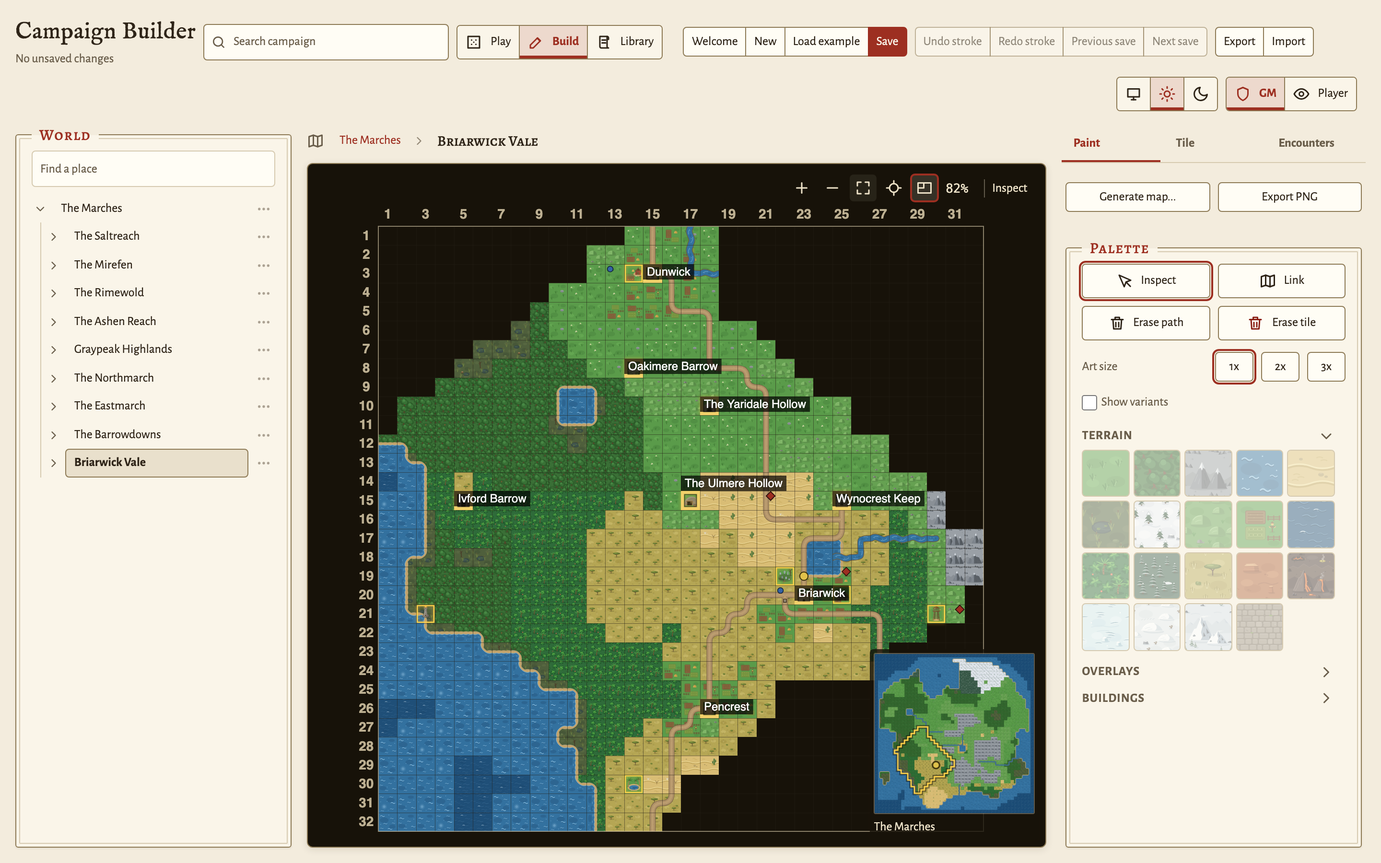
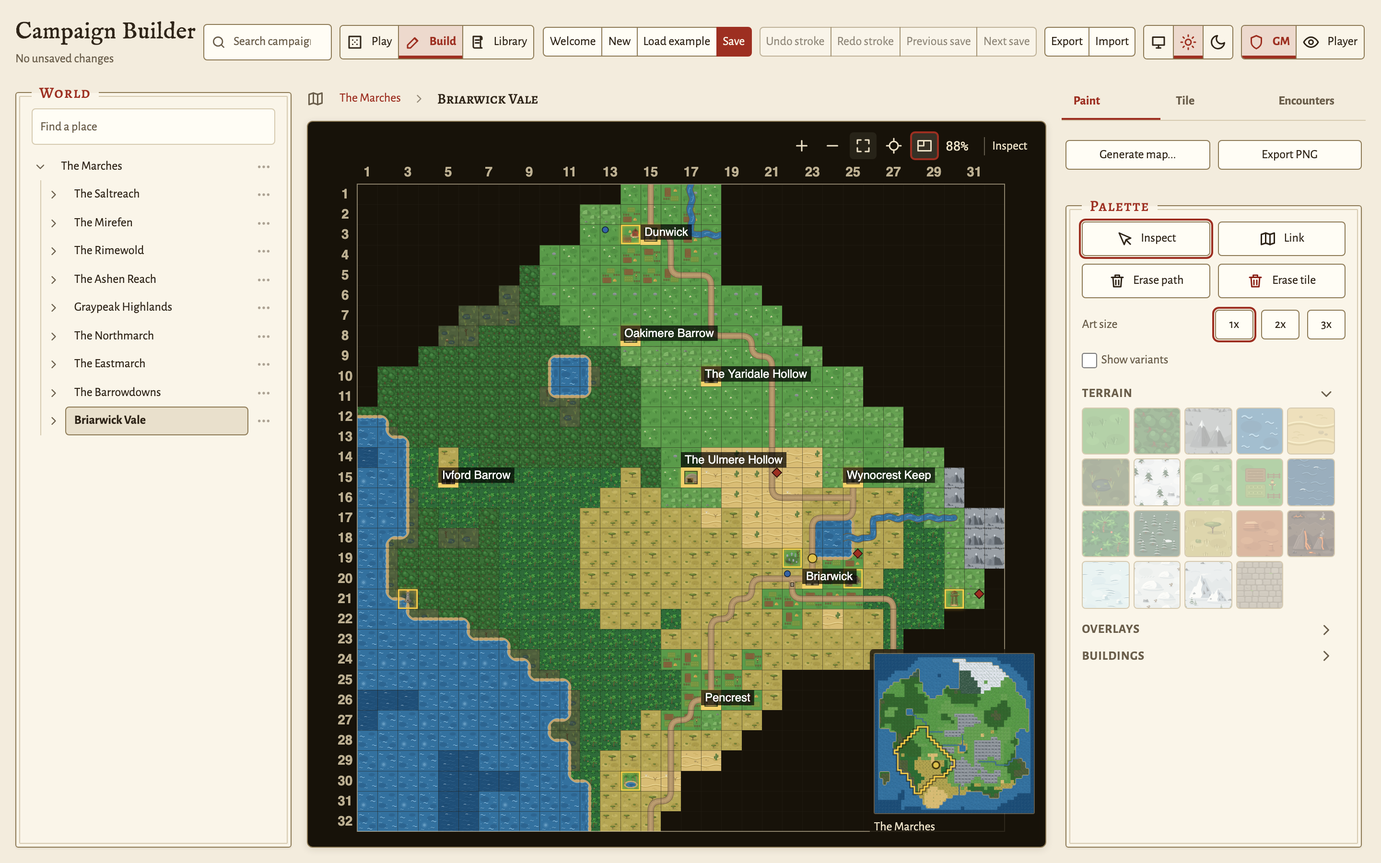
Fit the header on one row from 1280 pixels in every mode.
Build mode adds Undo stroke and Redo stroke to the History cluster, and Library mode spells out Export campaign and Import campaign, so both wrapped the header onto a second row at 1280 and 1440 pixels and took about 44 pixels from the map. The compact header range now runs to 115rem, header buttons use a 6 pixel side padding there, and the reserved switch widths match the GM view. Between the 900 pixel menu fold and 85rem the stroke pair shows new undo and redo arrow icons in place of its words, with aria-label and the tooltip keeping the full names. Wider headers and the open header menu still show the words.

The header still wraps between 901 and about 1270 pixels, as it did before. The Build mode screenshot is retaken and the GM reference describes the arrow buttons.

Changed region(s): [[0.2188, 0.0311, 0.9688, 0.9644], [0.0312, 0.0933, 0.1875, 0.56]]

diff --git a/docs/dev-guide.html b/docs/dev-guide.html
@@ -720,8 +720,8 @@
         <code>src/</code>. SLOC counts only the lines that are not blank and not comment.
       </p>
       <div class="facts">
-        <div><span class="fact-n">106,624</span><span class="fact-l">lines of source (LOC)</span></div>
-        <div><span class="fact-n">58,131</span><span class="fact-l">lines of code (SLOC)</span></div>
+        <div><span class="fact-n">106,635</span><span class="fact-l">lines of source (LOC)</span></div>
+        <div><span class="fact-n">58,136</span><span class="fact-l">lines of code (SLOC)</span></div>
         <div><span class="fact-n">628</span><span class="fact-l">source files</span></div>
         <div><span class="fact-n">480</span><span class="fact-l">test suites</span></div>
         <div><span class="fact-n">0</span><span class="fact-l">runtime dependencies</span></div>
@@ -1775,12 +1775,12 @@
     </section>
 
     <footer>
-      <div class="stamp">Generated from the source tree by scripts/build-dev-guide.mjs, source fingerprint 35be343311a2. Run <code>pnpm run guide</code> to rebuild.</div>
+      <div class="stamp">Generated from the source tree by scripts/build-dev-guide.mjs, source fingerprint 07fe4385da42. Run <code>pnpm run guide</code> to rebuild.</div>
     </footer>
   </main>
 </div>
 
-<script>window.__GUIDE_DATA__ = {"sections":[{"id":"layers","short":"Module logic"},{"id":"root","short":"Composition root"},{"id":"panels","short":"Panel contract"},{"id":"map","short":"Map model"},{"id":"save","short":"Persistence"},{"id":"where","short":"Where code goes"},{"id":"work","short":"Working on it"},{"id":"review","short":"Pre-flight"},{"id":"modules","short":"Module index"}],"kindGroups":[["root","composition"],["wiring","wiring"],["glue","DOM glue"],["mixed","pure + glue"],["pure","pure logic"],["data","catalogs"],["types","declarations"],["unclassified","unclassified"]],"dirs":[{"id":"app","name":"app/","files":101,"lines":18590,"code":11072,"kind":"wiring","role":"One wireX(app) module per feature area. Mounts panels, registers views and actions, and keeps the per-feature UI state that is not saved.","imports":["campaign","combat","data","dice","entities","handout","library","log","map","party","quest","storage","time","ui","util","view"]},{"id":"campaign","name":"campaign/","files":12,"lines":3113,"code":2275,"kind":"pure","role":"Blank and example campaign builders, and the initial load.","imports":["data","entities","map","party","storage","time","util"]},{"id":"combat","name":"combat/","files":31,"lines":3936,"code":1602,"kind":"pure","role":"Initiative order, attack resolution, the action budget, reactions, and loadout reads.","imports":["data","dice","entities","map","util","view"]},{"id":"data","name":"data/","files":22,"lines":5190,"code":4782,"kind":"data","role":"Frozen catalogs: abilities, classes, races, backgrounds, skills, spells, feats, creatures, and challenge ratings.","imports":["util"]},{"id":"dice","name":"dice/","files":4,"lines":429,"code":199,"kind":"pure","role":"roll(selection, rng). The generator is an argument, so a test can pass a stub.","imports":["entities","map","util"]},{"id":"entities","name":"entities/","files":110,"lines":18093,"code":8089,"kind":"pure","role":"Characters, encounters, resources, equipment, and casting. Every writer returns a new object.","imports":["combat","data","dice","map","util"]},{"id":"handout","name":"handout/","files":2,"lines":382,"code":160,"kind":"pure","role":"Handout records, visibility filters, and dialog helpers.","imports":["map","util"]},{"id":"library","name":"library/","files":6,"lines":1027,"code":547,"kind":"pure","role":"Merges the built-in catalogs with the GM customs, tagging each entry default, override, or custom.","imports":["combat","data","dice","entities","util"]},{"id":"log","name":"log/","files":3,"lines":289,"code":106,"kind":"pure","role":"Travelogue entries and the incremental read the panel renders from.","imports":["time","view"]},{"id":"main","name":"main.js","files":1,"lines":171,"code":97,"kind":"root","role":"Builds the AppContext, then calls each wiring module in mount order.","imports":["app","campaign","map","party","storage","ui","view"]},{"id":"map","name":"map/","files":85,"lines":18294,"code":9222,"kind":"mixed","role":"Tile grid, node hierarchy, fog, and region grouping, plus the canvas renderer. The renderer is the glue half, and everything else is pure.","imports":["handout","storage","util"]},{"id":"party","name":"party/","files":3,"lines":414,"code":143,"kind":"pure","role":"Party position and split-party tokens. Moving the party reveals fog.","imports":["map","time"]},{"id":"quest","name":"quest/","files":5,"lines":579,"code":223,"kind":"pure","role":"Quest records, objectives, links, and status transitions.","imports":["combat","entities","map"]},{"id":"storage","name":"storage/","files":39,"lines":7711,"code":3375,"kind":"pure","role":"Serialize, pack, migrate, and the delta history. Browser APIs are confined to thin wrappers.","imports":["combat","entities","handout","library","map","quest","time","util"]},{"id":"time","name":"time/","files":5,"lines":414,"code":170,"kind":"pure","role":"The in-game clock of watches and days.","imports":["util"]},{"id":"types","name":"types/","files":23,"lines":3344,"code":1623,"kind":"types","role":"Declaration files only, with no runtime code. The .js files point here through JSDoc, so no import edge leads to this directory.","imports":[]},{"id":"ui","name":"ui/","files":117,"lines":20232,"code":12407,"kind":"glue","role":"DOM widgets: panels, dialogs, forms. Draws from callbacks and writes nothing.","imports":["combat","data","dice","entities","library","log","map","quest","storage","time","util","view"]},{"id":"util","name":"util/","files":11,"lines":360,"code":129,"kind":"pure","role":"Clamping, identity memos, deep freeze, seeded random, idle scheduling, and text helpers. Imports nothing.","imports":[]},{"id":"view","name":"view/","files":48,"lines":4056,"code":1910,"kind":"pure","role":"View rules that a widget reads: stat bars, the shortcut table, the theme, the player lock.","imports":["combat","data","entities","handout","library","log","map","storage","util"]}],"steps":[{"call":"wireCampaignActions","line":101,"role":"dirty flag + header campaign controls; provides markDirty","why":"The order below is a dependency order, not a preference. Almost every cross-module reference resolves when an event fires, long after all of this has run. Three modules reach another module's registrations while they are still mounting, so those registrations must be in place first.","regs":[{"registry":"actions","name":"markDirty"},{"registry":"actions","name":"mergeQueuedPatches"}]},{"call":"wireLibrary","line":104,"role":"Library mode: equipment/bestiary/NPC templates + custom-library file","why":"The library loads before anything that offers its presets (the item form, the enemy gear pickers), so the merged lists are live from the first open.","regs":[{"registry":"actions","name":"showLibrary"}]},{"call":"wireCombatScreen","line":108,"role":"combat mode's full-width board","why":"The combat screen mounts before the fight state, because that module's refresh paths reach `views.combatScreen` while it is still mounting.","regs":[{"registry":"views","name":"combatScreen"}]},{"call":"wireFightState","line":109,"role":"the running fight + the Initiative card","why":"","regs":[{"registry":"actions","name":"removeCombatant"},{"registry":"actions","name":"addCombatant"},{"registry":"actions","name":"spendBudget"},{"registry":"actions","name":"toggleBudget"},{"registry":"actions","name":"surgeBudget"},{"registry":"actions","name":"advanceCombatTurn"},{"registry":"actions","name":"endCombat"},{"registry":"actions","name":"syncCombatLocation"},{"registry":"views","name":"initiativePanel"}]},{"call":"wireEncounters","line":110,"role":"encounter panels + the combat setup dialog","why":"","regs":[]},{"call":"wireStory","line":111,"role":"travelogue (logEvent), NPCs, quests, handouts","why":"","regs":[{"registry":"actions","name":"logEvent"},{"registry":"views","name":"travelogPanel"},{"registry":"views","name":"npcPanel"},{"registry":"views","name":"buildNPCs"},{"registry":"views","name":"questPanel"}]},{"call":"wireParty","line":115,"role":"roster, sheet, inventory, time","why":"","regs":[{"registry":"actions","name":"getBoundCharacterId"},{"registry":"actions","name":"refreshSelectedCharacter"},{"registry":"actions","name":"getSelectedCharacterId"},{"registry":"views","name":"timePanel"},{"registry":"actions","name":"passTravelTime"},{"registry":"views","name":"partyPanels"}]},{"call":"wireMapView","line":119,"role":"canvas, trees, inspector, palette, fog, map tools","why":"This call draws the first map, which also marks the encounter and NPC tiles and rebuilds the Build-rail lists those markers share a node scope with. The two modules that own those lists are wired above.","regs":[{"registry":"actions","name":"undoStroke"},{"registry":"actions","name":"redoStroke"},{"registry":"actions","name":"meetCreatures"},{"registry":"actions","name":"syncPartyMarker"},{"registry":"actions","name":"syncExits"},{"registry":"actions","name":"syncCreatureMarkers"},{"registry":"actions","name":"refreshMapDescription"},{"registry":"actions","name":"resyncMap"},{"registry":"actions","name":"getSelectedTileId"},{"registry":"actions","name":"focusLocation"},{"registry":"actions","name":"centerOnLocation"},{"registry":"views","name":"regionTree"},{"registry":"views","name":"mapCanvas"},{"registry":"actions","name":"syncToolChip"},{"registry":"actions","name":"goToNode"},{"registry":"actions","name":"onModeChanged"},{"registry":"actions","name":"onRoleChanged"},{"registry":"actions","name":"showBuild"}]},{"call":"wireGenerateAction","line":120,"role":"shares the map's context rather than routing through actions","why":"","regs":[{"registry":"actions","name":"generateWorld"}]},{"call":"wireDiceTray","line":121,"role":"dice tray + the roll entries it writes to the travelogue","why":"","regs":[{"registry":"actions","name":"rollDice"},{"registry":"actions","name":"clearDiceResult"}]},{"call":"wireSessionControls","line":126,"role":"mode/role switches (applies the initial role), tabs, sidebar","why":"This must run last: mounting the role switch applies the starting role straight away. That refreshes four panels and re-points the character sheet, so everything it touches must already be registered.","regs":[{"registry":"actions","name":"setMode"}]}],"stages":[{"id":"raw","name":"in-memory state","size":5854923,"note":"Every tile and every entity written in full, the way they sit in memory."},{"id":"tiles","name":"1. tile defaults","size":2178532,"note":"packTile deletes default-valued fields from a copy, so a field added later keeps its value through the round trip, and withTileDefaults puts the defaults back on load."},{"id":"entities","name":"2. entity defaults","size":2171082,"note":"packEntity drops a field only when the real unpacker restores the same value. A fixed table of defaults would mis-restore an encounter whose weapon comes from its level and tier."},{"id":"assets","name":"3. assets hoisted","size":2171082,"note":"Inline data: URLs move into an assets table keyed by content hash, and the tile keeps an asset: reference. The example campaign ships no uploaded art, so this layer changes nothing here. It saves space once a GM uploads art for a handout, and more once custom tile art ships."},{"id":"codec","name":"4. tile codec","size":245328,"note":"Each node becomes an art palette, a row-major run-length list of indices, and a run-length fog track. The codec is opt-in per node, and when it meets an id it cannot parse it returns the same object and leaves the node alone."},{"id":"strings","name":"5. string table","size":197676,"note":"Every palette string moves into one strings table at the top of the save, and each palette names it by index. Only the save string has the table, so one encoded node still decodes alone."}],"storageKeys":[{"key":"campaign-builder:assets","file":"src/storage/AssetStore.js","line":30},{"key":"campaign-builder:bound-character","file":"src/view/CharacterBinding.js","line":17},{"key":"campaign-builder:gm-lock","file":"src/storage/GMLock.js","line":25},{"key":"campaign-builder:history","file":"src/storage/HistoryLog.js","line":10},{"key":"campaign-builder:library","file":"src/storage/LibraryStore.js","line":11},{"key":"campaign-builder:minimap-hidden","file":"src/ui/MiniMap.js","line":20},{"key":"campaign-builder:onboarded","file":"src/app/onboarding.js","line":9},{"key":"campaign-builder:patch:","file":"src/storage/PlayerPatch.js","line":32},{"key":"campaign-builder:pending-toast","file":"src/ui/Toast.js","line":108},{"key":"campaign-builder:player-hint-shown","file":"src/app/sessionControls.js","line":11},{"key":"campaign-builder:player-lock","file":"src/boot.js","line":37},{"key":"campaign-builder:quest-groups","file":"src/ui/QuestPanel.js","line":13},{"key":"campaign-builder:reload-view","file":"src/view/ReloadView.js","line":16},{"key":"campaign-builder:role","file":"src/app/sessionControls.js","line":203},{"key":"campaign-builder:save","file":"src/storage/SaveStorage.js","line":21},{"key":"campaign-builder:save-mark","file":"src/storage/SaveStorage.js","line":38},{"key":"campaign-builder:show-variants","file":"src/ui/PalettePanel.js","line":10},{"key":"campaign-builder:story-cards","file":"src/ui/StoryCards.js","line":7},{"key":"campaign-builder:theme","file":"src/boot.js","line":27}],"commands":[{"command":"pnpm install","note":"Development tools only."},{"command":"pnpm run dev","note":"Dev server on 127.0.0.1:8080. Rebuilds on every source change. Reload the page to see the change."},{"command":"node --test tests/Character.test.js","note":"One file while you iterate."},{"command":"pnpm run test","note":"The whole suite. Run it before every commit."},{"command":"pnpm run coverage","note":"Line, branch, and function coverage across all of src/."},{"command":"pnpm run typecheck","note":"Typechecks src/ and docs/gallery/. Do not use pnpx tsc, which downloads a placeholder package and checks nothing."},{"command":"pnpm run lint","note":"ESLint over the tree."},{"command":"pnpm run build","note":"Minified production output in dist/."},{"command":"pnpm run guide","note":"Rebuilds this page from the source tree."},{"command":"git config core.hooksPath hooks","note":"Once per clone. Turns on the pre-commit gate."}],"checklist":[{"title":"Every new writer returns a new object","note":"No in-place mutation in entities/ or map/. The repaint guard and the WeakMap caches both depend on it.","refs":[{"file":"src/util/memoize.js","symbol":"memoizeByIdentity","line":15}]},{"title":"New pure logic has a test","note":"One tests/\u003cModule>.test.js per source module. Side effects arrive as arguments.","refs":[]},{"title":"New save fields are absorbed, not migrated","note":"withDefaults covers absence. Migrations.js is only for a change of meaning. Add the field to SYNCED_STATE_KEYS.","refs":[{"file":"src/app/rehydrate.js","symbol":"SYNCED_STATE_KEYS","line":40}]},{"title":"Handlers read app.views and app.actions at call time","note":"Capturing a registry entry during wiring breaks the mount order.","refs":[]},{"title":"Color, spacing, radius, and type come from tokens","note":"styles/base.css only, and never an inline var() fallback.","refs":[]},{"title":"Destructive actions confirm first","note":"confirmDelete for a plain entity delete, confirmModal with danger: true for anything else.","refs":[{"file":"src/ui/Modal.js","symbol":"confirmDelete","line":475}]},{"title":"Buttons and empty states come from ui/buttons.js","note":"iconButton, textButton, emptyState, segSwitch. An icon-only button needs an aria-label.","refs":[{"file":"src/ui/buttons.js","symbol":"emptyState","line":289}]},{"title":"Dismiss on the left, primary on the right","note":"Every modal, inline form, and action bar.","refs":[]},{"title":"The file is under 500 lines","note":"Split it by responsibility when it is not.","refs":[]},{"title":"DOM and canvas changes were opened in a browser","note":"Screenshot the change and read the console for 404s on asset paths.","refs":[]},{"title":"Lint, suite, and typecheck all pass","note":"The pre-commit hook runs the formatter and then all three.","refs":[]}],"routerTree":{"start":{"q":"Does the change need the DOM, a canvas, or a browser API?","opts":[{"label":"No","note":"Rules, math, data models, save format.","next":"pure"},{"label":"Yes","note":"Elements, events, drawing, storage APIs.","next":"glue"}]},"pure":{"q":"What does it operate on?","opts":[{"label":"Tiles, nodes, fog","note":"Geometry, hierarchy, reveal.","answer":"map"},{"label":"Characters or foes","note":"Stats, gear, spells, damage.","answer":"entities"},{"label":"The save format","note":"New field, new format, packing.","answer":"storage"},{"label":"Randomness","note":"Dice, rolls, checks.","answer":"dice"}]},"glue":{"q":"Is it one panel, or a behavior that crosses features?","opts":[{"label":"One panel","note":"A list, a form, a card.","answer":"ui"},{"label":"Crosses features","note":"A move triggers an encounter, a cast writes the log.","answer":"app"},{"label":"Drawing on the map","note":"A new render pass or marker.","answer":"canvas"}]}},"routerAnswers":{"map":{"where":"src/map/","test":"tests/\u003cModule>.test.js, with no DOM. Take the node as an argument and return a new node.","trap":"Return the same node object when nothing changed. TileIndex and every WeakMap cache are keyed on node identity, so a mutated node serves stale data forever.","refs":[{"file":"src/map/TileIndex.js","symbol":"tileAt","line":303},{"file":"src/map/FogOfWar.js","symbol":"revealAround","line":27}]},"entities":{"where":"src/entities/, with any catalog data in src/data/","test":"tests/\u003cModule>.test.js. Inject the generator so the result is deterministic.","trap":"Never mutate in place. A writer returns a new object, and the panel repaint guard depends on that. Catalogs in src/data/ are deep-frozen, so copy one before you write it into campaign state.","refs":[{"file":"src/util/deepFreeze.js","symbol":"deepFreeze","line":16},{"file":"src/entities/CreatureTemplate.js","symbol":"fromTemplate","line":64}]},"storage":{"where":"src/storage/","test":"A round trip through serialize and deserialize, plus a migration test if the meaning of a field changed.","trap":"A new field needs no migration, because withDefaults absorbs absence. Only a change of meaning goes in Migrations.js. Add the field to SYNCED_STATE_KEYS as well, which a test compares with the fields of Campaign.","refs":[{"file":"src/storage/Migrations.js","symbol":"migrateState","line":282},{"file":"src/app/rehydrate.js","symbol":"SYNCED_STATE_KEYS","line":40}]},"dice":{"where":"src/dice/, or src/combat/ if it resolves an attack","test":"Pass a stub generator and assert the exact output, the way tests/DiceRoller.test.js does.","trap":"The generator and the clock are arguments, never module state, because every test in this layer asserts an exact result and module state would make that impossible.","refs":[{"file":"src/dice/DiceRoller.js","symbol":"roll","line":34},{"file":"src/combat/AttackResolve.js","symbol":"resolveAttack","line":83}]},"ui":{"where":"src/ui/","test":"Nothing automated. Extract the rules into a pure module and test that, then check the widget itself in a browser.","trap":"Use mountListPanel, buttons.js, and the tokens in styles/base.css before you write new markup. Never write an inline token fallback such as var(--border, #ccc), because a missing token should render as nothing so that the mistake is visible.","refs":[{"file":"src/ui/listPanel.js","symbol":"mountListPanel","line":156},{"file":"src/ui/buttons.js","symbol":"iconButton","line":34}]},"app":{"where":"src/app/\u003cfeature>Wiring.js, or a helper beside it","test":"Split the rule out as a pure function and test that half. The wiring stays thin.","trap":"Read app.views and app.actions inside the handler, never during wiring. Capturing a registry entry at mount time breaks the mount order and brings back import cycles.","refs":[{"file":"src/app/mapTravel.js","symbol":"createMapTravel","line":40}]},"canvas":{"where":"src/map/MapRenderer.js and the render modules beside it, with pure helpers alongside","test":"Visual. Use tests/map-canvas-preview.html and read the console.","trap":"render() only schedules a frame. Add derived data to the shared frame object rather than re-scanning node.tiles, and iterate the visible cell range only.","refs":[{"file":"src/map/MapCanvas.js","symbol":"render","line":136},{"file":"src/map/MapRenderer.js","symbol":"anyRevealed","line":33}]}},"revealRadius":2};</script>
+<script>window.__GUIDE_DATA__ = {"sections":[{"id":"layers","short":"Module logic"},{"id":"root","short":"Composition root"},{"id":"panels","short":"Panel contract"},{"id":"map","short":"Map model"},{"id":"save","short":"Persistence"},{"id":"where","short":"Where code goes"},{"id":"work","short":"Working on it"},{"id":"review","short":"Pre-flight"},{"id":"modules","short":"Module index"}],"kindGroups":[["root","composition"],["wiring","wiring"],["glue","DOM glue"],["mixed","pure + glue"],["pure","pure logic"],["data","catalogs"],["types","declarations"],["unclassified","unclassified"]],"dirs":[{"id":"app","name":"app/","files":101,"lines":18594,"code":11075,"kind":"wiring","role":"One wireX(app) module per feature area. Mounts panels, registers views and actions, and keeps the per-feature UI state that is not saved.","imports":["campaign","combat","data","dice","entities","handout","library","log","map","party","quest","storage","time","ui","util","view"]},{"id":"campaign","name":"campaign/","files":12,"lines":3113,"code":2275,"kind":"pure","role":"Blank and example campaign builders, and the initial load.","imports":["data","entities","map","party","storage","time","util"]},{"id":"combat","name":"combat/","files":31,"lines":3936,"code":1602,"kind":"pure","role":"Initiative order, attack resolution, the action budget, reactions, and loadout reads.","imports":["data","dice","entities","map","util","view"]},{"id":"data","name":"data/","files":22,"lines":5190,"code":4782,"kind":"data","role":"Frozen catalogs: abilities, classes, races, backgrounds, skills, spells, feats, creatures, and challenge ratings.","imports":["util"]},{"id":"dice","name":"dice/","files":4,"lines":429,"code":199,"kind":"pure","role":"roll(selection, rng). The generator is an argument, so a test can pass a stub.","imports":["entities","map","util"]},{"id":"entities","name":"entities/","files":110,"lines":18093,"code":8089,"kind":"pure","role":"Characters, encounters, resources, equipment, and casting. Every writer returns a new object.","imports":["combat","data","dice","map","util"]},{"id":"handout","name":"handout/","files":2,"lines":382,"code":160,"kind":"pure","role":"Handout records, visibility filters, and dialog helpers.","imports":["map","util"]},{"id":"library","name":"library/","files":6,"lines":1027,"code":547,"kind":"pure","role":"Merges the built-in catalogs with the GM customs, tagging each entry default, override, or custom.","imports":["combat","data","dice","entities","util"]},{"id":"log","name":"log/","files":3,"lines":289,"code":106,"kind":"pure","role":"Travelogue entries and the incremental read the panel renders from.","imports":["time","view"]},{"id":"main","name":"main.js","files":1,"lines":171,"code":97,"kind":"root","role":"Builds the AppContext, then calls each wiring module in mount order.","imports":["app","campaign","map","party","storage","ui","view"]},{"id":"map","name":"map/","files":85,"lines":18294,"code":9222,"kind":"mixed","role":"Tile grid, node hierarchy, fog, and region grouping, plus the canvas renderer. The renderer is the glue half, and everything else is pure.","imports":["handout","storage","util"]},{"id":"party","name":"party/","files":3,"lines":414,"code":143,"kind":"pure","role":"Party position and split-party tokens. Moving the party reveals fog.","imports":["map","time"]},{"id":"quest","name":"quest/","files":5,"lines":579,"code":223,"kind":"pure","role":"Quest records, objectives, links, and status transitions.","imports":["combat","entities","map"]},{"id":"storage","name":"storage/","files":39,"lines":7711,"code":3375,"kind":"pure","role":"Serialize, pack, migrate, and the delta history. Browser APIs are confined to thin wrappers.","imports":["combat","entities","handout","library","map","quest","time","util"]},{"id":"time","name":"time/","files":5,"lines":414,"code":170,"kind":"pure","role":"The in-game clock of watches and days.","imports":["util"]},{"id":"types","name":"types/","files":23,"lines":3344,"code":1623,"kind":"types","role":"Declaration files only, with no runtime code. The .js files point here through JSDoc, so no import edge leads to this directory.","imports":[]},{"id":"ui","name":"ui/","files":117,"lines":20239,"code":12409,"kind":"glue","role":"DOM widgets: panels, dialogs, forms. Draws from callbacks and writes nothing.","imports":["combat","data","dice","entities","library","log","map","quest","storage","time","util","view"]},{"id":"util","name":"util/","files":11,"lines":360,"code":129,"kind":"pure","role":"Clamping, identity memos, deep freeze, seeded random, idle scheduling, and text helpers. Imports nothing.","imports":[]},{"id":"view","name":"view/","files":48,"lines":4056,"code":1910,"kind":"pure","role":"View rules that a widget reads: stat bars, the shortcut table, the theme, the player lock.","imports":["combat","data","entities","handout","library","log","map","storage","util"]}],"steps":[{"call":"wireCampaignActions","line":101,"role":"dirty flag + header campaign controls; provides markDirty","why":"The order below is a dependency order, not a preference. Almost every cross-module reference resolves when an event fires, long after all of this has run. Three modules reach another module's registrations while they are still mounting, so those registrations must be in place first.","regs":[{"registry":"actions","name":"markDirty"},{"registry":"actions","name":"mergeQueuedPatches"}]},{"call":"wireLibrary","line":104,"role":"Library mode: equipment/bestiary/NPC templates + custom-library file","why":"The library loads before anything that offers its presets (the item form, the enemy gear pickers), so the merged lists are live from the first open.","regs":[{"registry":"actions","name":"showLibrary"}]},{"call":"wireCombatScreen","line":108,"role":"combat mode's full-width board","why":"The combat screen mounts before the fight state, because that module's refresh paths reach `views.combatScreen` while it is still mounting.","regs":[{"registry":"views","name":"combatScreen"}]},{"call":"wireFightState","line":109,"role":"the running fight + the Initiative card","why":"","regs":[{"registry":"actions","name":"removeCombatant"},{"registry":"actions","name":"addCombatant"},{"registry":"actions","name":"spendBudget"},{"registry":"actions","name":"toggleBudget"},{"registry":"actions","name":"surgeBudget"},{"registry":"actions","name":"advanceCombatTurn"},{"registry":"actions","name":"endCombat"},{"registry":"actions","name":"syncCombatLocation"},{"registry":"views","name":"initiativePanel"}]},{"call":"wireEncounters","line":110,"role":"encounter panels + the combat setup dialog","why":"","regs":[]},{"call":"wireStory","line":111,"role":"travelogue (logEvent), NPCs, quests, handouts","why":"","regs":[{"registry":"actions","name":"logEvent"},{"registry":"views","name":"travelogPanel"},{"registry":"views","name":"npcPanel"},{"registry":"views","name":"buildNPCs"},{"registry":"views","name":"questPanel"}]},{"call":"wireParty","line":115,"role":"roster, sheet, inventory, time","why":"","regs":[{"registry":"actions","name":"getBoundCharacterId"},{"registry":"actions","name":"refreshSelectedCharacter"},{"registry":"actions","name":"getSelectedCharacterId"},{"registry":"views","name":"timePanel"},{"registry":"actions","name":"passTravelTime"},{"registry":"views","name":"partyPanels"}]},{"call":"wireMapView","line":119,"role":"canvas, trees, inspector, palette, fog, map tools","why":"This call draws the first map, which also marks the encounter and NPC tiles and rebuilds the Build-rail lists those markers share a node scope with. The two modules that own those lists are wired above.","regs":[{"registry":"actions","name":"undoStroke"},{"registry":"actions","name":"redoStroke"},{"registry":"actions","name":"meetCreatures"},{"registry":"actions","name":"syncPartyMarker"},{"registry":"actions","name":"syncExits"},{"registry":"actions","name":"syncCreatureMarkers"},{"registry":"actions","name":"refreshMapDescription"},{"registry":"actions","name":"resyncMap"},{"registry":"actions","name":"getSelectedTileId"},{"registry":"actions","name":"focusLocation"},{"registry":"actions","name":"centerOnLocation"},{"registry":"views","name":"regionTree"},{"registry":"views","name":"mapCanvas"},{"registry":"actions","name":"syncToolChip"},{"registry":"actions","name":"goToNode"},{"registry":"actions","name":"onModeChanged"},{"registry":"actions","name":"onRoleChanged"},{"registry":"actions","name":"showBuild"}]},{"call":"wireGenerateAction","line":120,"role":"shares the map's context rather than routing through actions","why":"","regs":[{"registry":"actions","name":"generateWorld"}]},{"call":"wireDiceTray","line":121,"role":"dice tray + the roll entries it writes to the travelogue","why":"","regs":[{"registry":"actions","name":"rollDice"},{"registry":"actions","name":"clearDiceResult"}]},{"call":"wireSessionControls","line":126,"role":"mode/role switches (applies the initial role), tabs, sidebar","why":"This must run last: mounting the role switch applies the starting role straight away. That refreshes four panels and re-points the character sheet, so everything it touches must already be registered.","regs":[{"registry":"actions","name":"setMode"}]}],"stages":[{"id":"raw","name":"in-memory state","size":5854923,"note":"Every tile and every entity written in full, the way they sit in memory."},{"id":"tiles","name":"1. tile defaults","size":2178532,"note":"packTile deletes default-valued fields from a copy, so a field added later keeps its value through the round trip, and withTileDefaults puts the defaults back on load."},{"id":"entities","name":"2. entity defaults","size":2171082,"note":"packEntity drops a field only when the real unpacker restores the same value. A fixed table of defaults would mis-restore an encounter whose weapon comes from its level and tier."},{"id":"assets","name":"3. assets hoisted","size":2171082,"note":"Inline data: URLs move into an assets table keyed by content hash, and the tile keeps an asset: reference. The example campaign ships no uploaded art, so this layer changes nothing here. It saves space once a GM uploads art for a handout, and more once custom tile art ships."},{"id":"codec","name":"4. tile codec","size":245328,"note":"Each node becomes an art palette, a row-major run-length list of indices, and a run-length fog track. The codec is opt-in per node, and when it meets an id it cannot parse it returns the same object and leaves the node alone."},{"id":"strings","name":"5. string table","size":197676,"note":"Every palette string moves into one strings table at the top of the save, and each palette names it by index. Only the save string has the table, so one encoded node still decodes alone."}],"storageKeys":[{"key":"campaign-builder:assets","file":"src/storage/AssetStore.js","line":30},{"key":"campaign-builder:bound-character","file":"src/view/CharacterBinding.js","line":17},{"key":"campaign-builder:gm-lock","file":"src/storage/GMLock.js","line":25},{"key":"campaign-builder:history","file":"src/storage/HistoryLog.js","line":10},{"key":"campaign-builder:library","file":"src/storage/LibraryStore.js","line":11},{"key":"campaign-builder:minimap-hidden","file":"src/ui/MiniMap.js","line":20},{"key":"campaign-builder:onboarded","file":"src/app/onboarding.js","line":9},{"key":"campaign-builder:patch:","file":"src/storage/PlayerPatch.js","line":32},{"key":"campaign-builder:pending-toast","file":"src/ui/Toast.js","line":108},{"key":"campaign-builder:player-hint-shown","file":"src/app/sessionControls.js","line":11},{"key":"campaign-builder:player-lock","file":"src/boot.js","line":37},{"key":"campaign-builder:quest-groups","file":"src/ui/QuestPanel.js","line":13},{"key":"campaign-builder:reload-view","file":"src/view/ReloadView.js","line":16},{"key":"campaign-builder:role","file":"src/app/sessionControls.js","line":203},{"key":"campaign-builder:save","file":"src/storage/SaveStorage.js","line":21},{"key":"campaign-builder:save-mark","file":"src/storage/SaveStorage.js","line":38},{"key":"campaign-builder:show-variants","file":"src/ui/PalettePanel.js","line":10},{"key":"campaign-builder:story-cards","file":"src/ui/StoryCards.js","line":7},{"key":"campaign-builder:theme","file":"src/boot.js","line":27}],"commands":[{"command":"pnpm install","note":"Development tools only."},{"command":"pnpm run dev","note":"Dev server on 127.0.0.1:8080. Rebuilds on every source change. Reload the page to see the change."},{"command":"node --test tests/Character.test.js","note":"One file while you iterate."},{"command":"pnpm run test","note":"The whole suite. Run it before every commit."},{"command":"pnpm run coverage","note":"Line, branch, and function coverage across all of src/."},{"command":"pnpm run typecheck","note":"Typechecks src/ and docs/gallery/. Do not use pnpx tsc, which downloads a placeholder package and checks nothing."},{"command":"pnpm run lint","note":"ESLint over the tree."},{"command":"pnpm run build","note":"Minified production output in dist/."},{"command":"pnpm run guide","note":"Rebuilds this page from the source tree."},{"command":"git config core.hooksPath hooks","note":"Once per clone. Turns on the pre-commit gate."}],"checklist":[{"title":"Every new writer returns a new object","note":"No in-place mutation in entities/ or map/. The repaint guard and the WeakMap caches both depend on it.","refs":[{"file":"src/util/memoize.js","symbol":"memoizeByIdentity","line":15}]},{"title":"New pure logic has a test","note":"One tests/\u003cModule>.test.js per source module. Side effects arrive as arguments.","refs":[]},{"title":"New save fields are absorbed, not migrated","note":"withDefaults covers absence. Migrations.js is only for a change of meaning. Add the field to SYNCED_STATE_KEYS.","refs":[{"file":"src/app/rehydrate.js","symbol":"SYNCED_STATE_KEYS","line":40}]},{"title":"Handlers read app.views and app.actions at call time","note":"Capturing a registry entry during wiring breaks the mount order.","refs":[]},{"title":"Color, spacing, radius, and type come from tokens","note":"styles/base.css only, and never an inline var() fallback.","refs":[]},{"title":"Destructive actions confirm first","note":"confirmDelete for a plain entity delete, confirmModal with danger: true for anything else.","refs":[{"file":"src/ui/Modal.js","symbol":"confirmDelete","line":475}]},{"title":"Buttons and empty states come from ui/buttons.js","note":"iconButton, textButton, emptyState, segSwitch. An icon-only button needs an aria-label.","refs":[{"file":"src/ui/buttons.js","symbol":"emptyState","line":289}]},{"title":"Dismiss on the left, primary on the right","note":"Every modal, inline form, and action bar.","refs":[]},{"title":"The file is under 500 lines","note":"Split it by responsibility when it is not.","refs":[]},{"title":"DOM and canvas changes were opened in a browser","note":"Screenshot the change and read the console for 404s on asset paths.","refs":[]},{"title":"Lint, suite, and typecheck all pass","note":"The pre-commit hook runs the formatter and then all three.","refs":[]}],"routerTree":{"start":{"q":"Does the change need the DOM, a canvas, or a browser API?","opts":[{"label":"No","note":"Rules, math, data models, save format.","next":"pure"},{"label":"Yes","note":"Elements, events, drawing, storage APIs.","next":"glue"}]},"pure":{"q":"What does it operate on?","opts":[{"label":"Tiles, nodes, fog","note":"Geometry, hierarchy, reveal.","answer":"map"},{"label":"Characters or foes","note":"Stats, gear, spells, damage.","answer":"entities"},{"label":"The save format","note":"New field, new format, packing.","answer":"storage"},{"label":"Randomness","note":"Dice, rolls, checks.","answer":"dice"}]},"glue":{"q":"Is it one panel, or a behavior that crosses features?","opts":[{"label":"One panel","note":"A list, a form, a card.","answer":"ui"},{"label":"Crosses features","note":"A move triggers an encounter, a cast writes the log.","answer":"app"},{"label":"Drawing on the map","note":"A new render pass or marker.","answer":"canvas"}]}},"routerAnswers":{"map":{"where":"src/map/","test":"tests/\u003cModule>.test.js, with no DOM. Take the node as an argument and return a new node.","trap":"Return the same node object when nothing changed. TileIndex and every WeakMap cache are keyed on node identity, so a mutated node serves stale data forever.","refs":[{"file":"src/map/TileIndex.js","symbol":"tileAt","line":303},{"file":"src/map/FogOfWar.js","symbol":"revealAround","line":27}]},"entities":{"where":"src/entities/, with any catalog data in src/data/","test":"tests/\u003cModule>.test.js. Inject the generator so the result is deterministic.","trap":"Never mutate in place. A writer returns a new object, and the panel repaint guard depends on that. Catalogs in src/data/ are deep-frozen, so copy one before you write it into campaign state.","refs":[{"file":"src/util/deepFreeze.js","symbol":"deepFreeze","line":16},{"file":"src/entities/CreatureTemplate.js","symbol":"fromTemplate","line":64}]},"storage":{"where":"src/storage/","test":"A round trip through serialize and deserialize, plus a migration test if the meaning of a field changed.","trap":"A new field needs no migration, because withDefaults absorbs absence. Only a change of meaning goes in Migrations.js. Add the field to SYNCED_STATE_KEYS as well, which a test compares with the fields of Campaign.","refs":[{"file":"src/storage/Migrations.js","symbol":"migrateState","line":282},{"file":"src/app/rehydrate.js","symbol":"SYNCED_STATE_KEYS","line":40}]},"dice":{"where":"src/dice/, or src/combat/ if it resolves an attack","test":"Pass a stub generator and assert the exact output, the way tests/DiceRoller.test.js does.","trap":"The generator and the clock are arguments, never module state, because every test in this layer asserts an exact result and module state would make that impossible.","refs":[{"file":"src/dice/DiceRoller.js","symbol":"roll","line":34},{"file":"src/combat/AttackResolve.js","symbol":"resolveAttack","line":83}]},"ui":{"where":"src/ui/","test":"Nothing automated. Extract the rules into a pure module and test that, then check the widget itself in a browser.","trap":"Use mountListPanel, buttons.js, and the tokens in styles/base.css before you write new markup. Never write an inline token fallback such as var(--border, #ccc), because a missing token should render as nothing so that the mistake is visible.","refs":[{"file":"src/ui/listPanel.js","symbol":"mountListPanel","line":156},{"file":"src/ui/buttons.js","symbol":"iconButton","line":34}]},"app":{"where":"src/app/\u003cfeature>Wiring.js, or a helper beside it","test":"Split the rule out as a pure function and test that half. The wiring stays thin.","trap":"Read app.views and app.actions inside the handler, never during wiring. Capturing a registry entry at mount time breaks the mount order and brings back import cycles.","refs":[{"file":"src/app/mapTravel.js","symbol":"createMapTravel","line":40}]},"canvas":{"where":"src/map/MapRenderer.js and the render modules beside it, with pure helpers alongside","test":"Visual. Use tests/map-canvas-preview.html and read the console.","trap":"render() only schedules a frame. Add derived data to the shared frame object rather than re-scanning node.tiles, and iterate the visible cell range only.","refs":[{"file":"src/map/MapCanvas.js","symbol":"render","line":136},{"file":"src/map/MapRenderer.js","symbol":"anyRevealed","line":33}]}},"revealRadius":2};</script>
 <script>
 (function () {
   'use strict';

diff --git a/styles/shell.css b/styles/shell.css
@@ -164,11 +164,12 @@ body.role-locked #role-switch-container {
 }
 
 /* On a laptop screen the full header is about 1,380 pixels wide, so it wraps
-   onto a second row and takes that height from the map. Between phone width
-   and 100rem the header buttons and the gaps between clusters shrink, and
-   the title steps down, so the Play header fits one row at 1280 pixels. The
-   reserved switch widths above shrink with the buttons. */
-@media (min-width: 40.0625rem) and (max-width: 100rem) {
+   onto a second row and takes that height from the map. Between tablet width
+   and 115rem the header buttons and the gaps between clusters shrink, so the
+   header fits one row at 1280 pixels in every mode. The reserved switch
+   widths above shrink with the buttons, to the width each switch has in the
+   GM view. */
+@media (min-width: 40.0625rem) and (max-width: 115rem) {
   .app-header {
     column-gap: var(--space-2);
   }
@@ -178,7 +179,7 @@ body.role-locked #role-switch-container {
   }
 
   .app-header .btn {
-    padding-inline: var(--space-2);
+    padding-inline: 0.375rem;
   }
 
   .app-header__view {
@@ -186,15 +187,38 @@ body.role-locked #role-switch-container {
   }
 
   #mode-switch-container {
-    min-width: 14.25rem;
+    min-width: 12.75rem;
   }
 
   #theme-toggle-container {
-    min-width: 6.625rem;
+    min-width: 5.875rem;
   }
 
   #role-switch-container {
-    min-width: 9.125rem;
+    min-width: 8.125rem;
+  }
+}
+
+/* Build mode adds the stroke pair to the History cluster. A wide header
+   shows its words, and so does the open header menu. Between the menu fold
+   and 85rem the pair shows only its arrow icons, which leaves room for
+   Previous save and Next save on the same row. Each button
+   keeps its name in aria-label and its tooltip. */
+.header-stroke-undo .icon {
+  display: none;
+}
+
+@media (min-width: 56.3125rem) and (max-width: 85rem) {
+  .header-stroke-undo__label {
+    display: none;
+  }
+
+  .header-stroke-undo .icon {
+    display: block;
+  }
+
+  .app-header .header-stroke-undo {
+    padding-inline: var(--space-2);
   }
 }
 

diff --git a/index.html b/index.html
@@ -68,9 +68,11 @@
                The tooltips name the edit each button would change. In Build
                mode the save-level pair reads Previous save and Next save, so
                the four buttons do not read as two pairs of Undo and Redo.
-               Other modes show the short words to keep the header on one row. -->
-          <button id="header-stroke-undo-btn" class="btn header-stroke-undo" type="button" data-tip="Nothing to undo on the map" disabled>Undo stroke</button>
-          <button id="header-stroke-redo-btn" class="btn header-stroke-undo" type="button" data-tip="Nothing to redo on the map" disabled>Redo stroke</button>
+               Other modes show the short words to keep the header on one row.
+               Between 900 px and 85rem the stroke pair shows only its arrow icons, and the
+               aria-label keeps the full name for a screen reader. -->
+          <button id="header-stroke-undo-btn" class="btn header-stroke-undo" type="button" aria-label="Undo stroke" data-tip="Nothing to undo on the map" disabled><span class="header-stroke-undo__label">Undo stroke</span></button>
+          <button id="header-stroke-redo-btn" class="btn header-stroke-undo" type="button" aria-label="Redo stroke" data-tip="Nothing to redo on the map" disabled><span class="header-stroke-undo__label">Redo stroke</span></button>
           <button id="undo-btn" class="btn" type="button" data-tip="Go back to the previous save"><span class="header-label--short">Undo</span><span class="header-label--build">Previous save</span></button>
           <button id="redo-btn" class="btn" type="button" data-tip="Go forward to the next save (Ctrl/Cmd+Shift+Z)"><span class="header-label--short">Redo</span><span class="header-label--build">Next save</span></button>
         </div>

diff --git a/src/ui/icons.js b/src/ui/icons.js
@@ -11,7 +11,7 @@
 
 import { classNames, setAttrs } from './dom.js';
 
-/** @typedef {'plus'|'minus'|'heal'|'remove'|'edit'|'save'|'export'|'import'|'dice'|'d20'|'add'|'check'|'chevron'|'back'|'circle'|'box'|'boxChecked'|'map'|'fit'|'target'|'sword'|'shield'|'clock'|'flag'|'scroll'|'sparkles'|'eye'|'eye-off'|'lock'|'give'|'sun'|'moon'|'monitor'|'warning'|'external'|'up'|'down'|'more'|'minimap'|'revert'|'pointer'|'search'} IconName */
+/** @typedef {'plus'|'minus'|'heal'|'remove'|'edit'|'save'|'export'|'import'|'dice'|'d20'|'add'|'check'|'chevron'|'back'|'circle'|'box'|'boxChecked'|'map'|'fit'|'target'|'sword'|'shield'|'clock'|'flag'|'scroll'|'sparkles'|'eye'|'eye-off'|'lock'|'give'|'sun'|'moon'|'monitor'|'warning'|'external'|'up'|'down'|'more'|'minimap'|'revert'|'undo'|'redo'|'pointer'|'search'} IconName */
 
 const SVG_NS = 'http://www.w3.org/2000/svg';
 
@@ -108,6 +108,9 @@ const PATHS = {
   target: ['M12 6a6 6 0 100 12 6 6 0 000-12z', 'M12 2v4', 'M12 18v4', 'M2 12h4', 'M18 12h4'],
   // A counter-clockwise arrow marks a revert to the built-in default.
   revert: ['M4 4v6h6', 'M5.5 15a7 7 0 1 0 1.6-7.3L4 10'],
+  // A hooked arrow that turns back marks undo, and its mirror marks redo.
+  undo: ['M9 14L4 9l5-5', 'M4 9h10.5a5.5 5.5 0 010 11H11'],
+  redo: ['M15 14l5-5-5-5', 'M20 9H9.5a5.5 5.5 0 000 11H13'],
   fit: ['M9 4H4v5', 'M15 4h5v5', 'M20 15v5h-5', 'M9 20H4v-5'],
   // A small inset in the top-left corner of a frame marks the mini-map.
   minimap: ['M3 5h18v14H3z', 'M3 12h8V5'],

diff --git a/src/app/mapBuildTools.js b/src/app/mapBuildTools.js
@@ -8,6 +8,7 @@ import {
 import { findRegionGroups } from '../map/RegionGroups.js';
 import { mustGetElement } from '../ui/dom.js';
 import { setTip } from '../ui/Tooltip.js';
+import { icon } from '../ui/icons.js';
 import { mountBuildEmptyMap } from '../ui/BuildEmptyMap.js';
 import { isBlankMap, PAINT_TAB } from '../view/BuildTool.js';
 import { removeStored, tryWriteStored } from '../storage/Footprint.js';
@@ -39,6 +40,9 @@ export function wireMapBuildTools(app, env, strokes, buildTabs) {
   const { grid, navigator, toasts } = app;
   const undoBtn = /** @type {HTMLButtonElement} */ (mustGetElement('header-stroke-undo-btn'));
   const redoBtn = /** @type {HTMLButtonElement} */ (mustGetElement('header-stroke-redo-btn'));
+  // Between 900 px and 85rem the header shows only these icons (styles/shell.css).
+  undoBtn.prepend(icon('undo', { size: 16 }));
+  redoBtn.prepend(icon('redo', { size: 16 }));
   undoBtn.addEventListener('click', () => void strokes.undoStroke());
   redoBtn.addEventListener('click', () => void strokes.redoStroke());
   strokes.onStrokeHistoryChange(({ undo, redo }) => {

diff --git a/docs/gm-reference/build.md b/docs/gm-reference/build.md
@@ -189,7 +189,10 @@ hover on the tiles of a place whose name is left out names the place.
 
 In Build mode, the header shows **Undo stroke** and **Redo stroke** to the
 left of **Previous save** and **Next save**. That pair is the Undo and
-Redo of the other modes, and it steps between saves.
+Redo of the other modes, and it steps between saves. In a window from 901
+to 1360 pixels wide, the stroke pair shows only a back arrow and a forward
+arrow, so the header fits on one row. The tooltip and the screen-reader name
+of each arrow still say Undo stroke and Redo stroke.
 
 | Control | What it does |
 | --- | --- |
